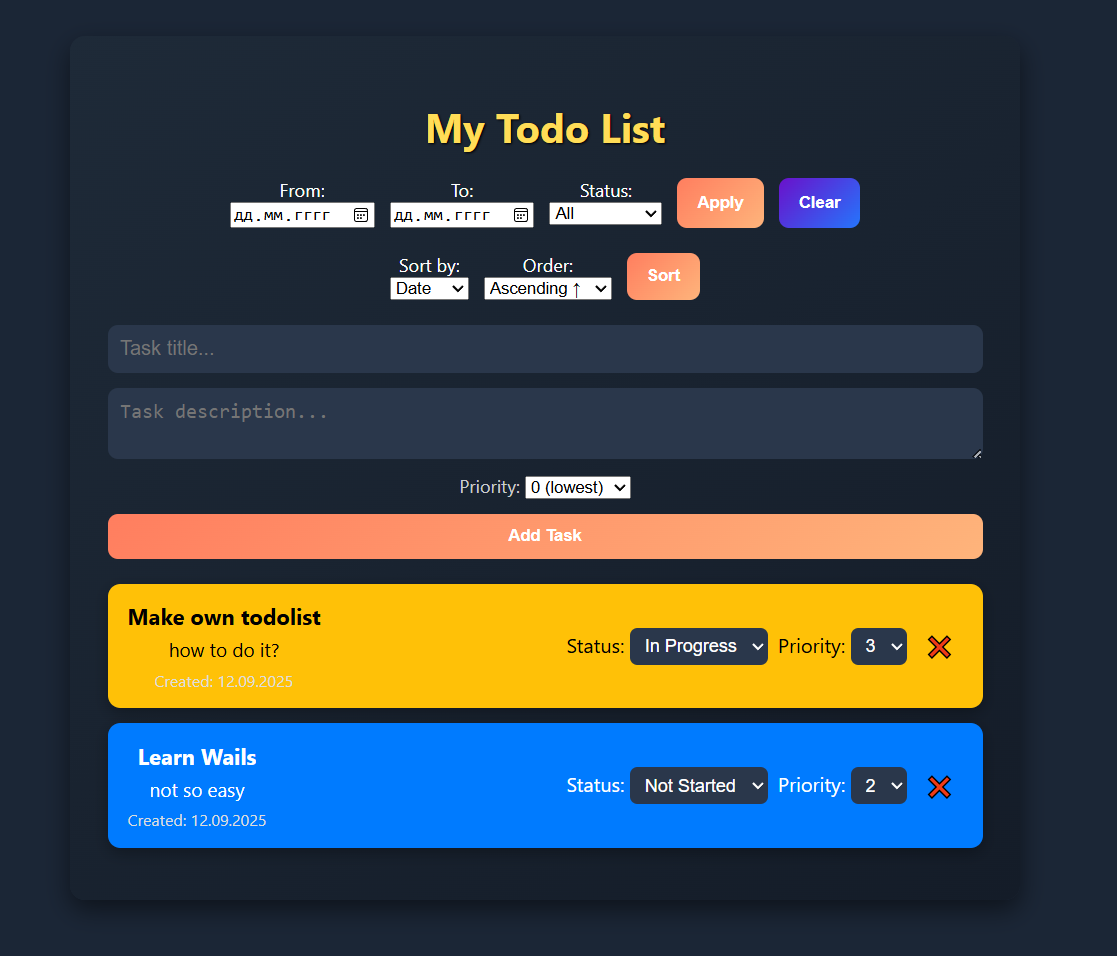
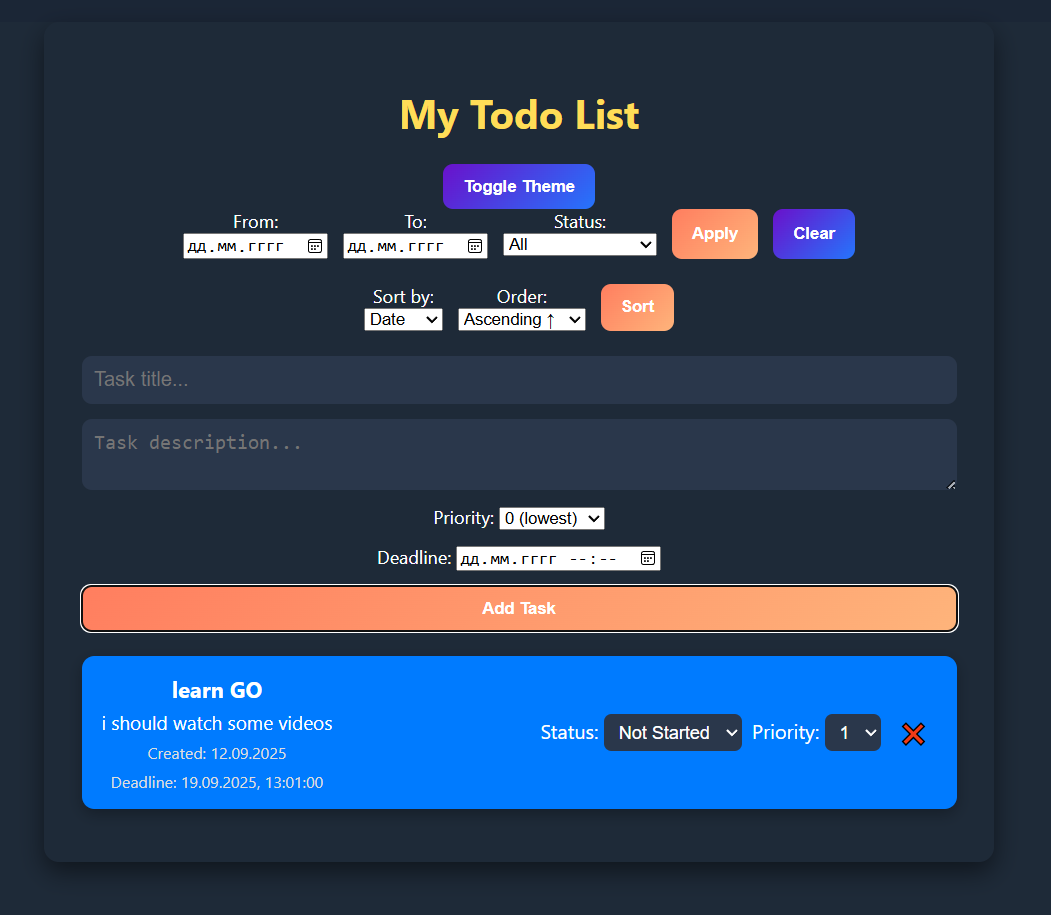
added screenshots

diff --git a/README.md b/README.md
@@ -1,8 +1,63 @@
 # TODOLIST
 
-Created by Zhunis Ayanat
+Created by Zhunis Ayanat, Тестовое задания для DMARK
 
+## Todo List App
+
+Приложение Todo List, реализованное с использованием Wails (Go + Frontend). Позволяет создавать задачи с приоритетами и дедлайнами, фильтровать, сортировать, отмечать как выполненные, удалять и хранить данные в PostgreSQL.
+
+## Стек технологий
+
+- Backend: Go + Wails
+
+
+- Frontend: Vanilla JS, HTML, CSS
+
+- База данных: PostgreSQL
+
+- Хранение состояния: PostgreSQL (через репозиторий задач)
+
+##  Функционал
+Основные возможности
+1. Создание задач
+    - Ввод названия и описания задачи.
+    - Установка приоритета (0–3).
+    - Установка дедлайна (дата и время).
+2. Отображение задач
+    - Список всех задач на экране.
+    - Цветовое обозначение по статусу:
+        - Синий – Not Started
+        - Жёлтый – In Progress
+        - Зелёный – Done
+        - Красный – просроченные задачи
+    - Просроченные задачи подсвечиваются.
+    - Зачеркивание текста выполненных задач.
+
+3. Редактирование
+    - Изменение статуса (Not Started, In Progress, Done).
+    - Изменение приоритета задачи.
+
+4. Удаление
+    - Удаление задачи с подтверждением.
+
+5. Фильтрация и сортировка
+    - Фильтрация по статусу:
+        - Все
+        - Активные
+        - Выполненные
+        - Просроченные (Expired Deadline)
+    - Фильтрация по дате создания (From / To).
+    - Сортировка по дате создания или приоритету.
+    - Выбор порядка: Asc / Desc.
+6. Тема
+    - Поддержка светлой и тёмной темы.
+    - Адаптивный интерфейс для разных размеров экранов.
 ## How to run?
+### Clone repository
+```bash
+    git clone git@github.com:barcek2281/todolist.git
+    cd todolist
+```
 
 ### Docker should run Postgres
 
@@ -27,3 +82,12 @@ wails dev
 ## Example of working App
 как все должно работать, при удачных запуске
 <img src="./img/example_1.png">
+---
+белая тема, для приятного посмотра:
+<img src="./img/example_2.png">
+---
+Фильтрация по статусу (in_progress) и сортировка по дате
+<img src="./img/example_3.png">
+---
+Также система дедлайна и сортировка по приоритету
+<img src="./img/example_4.png">
